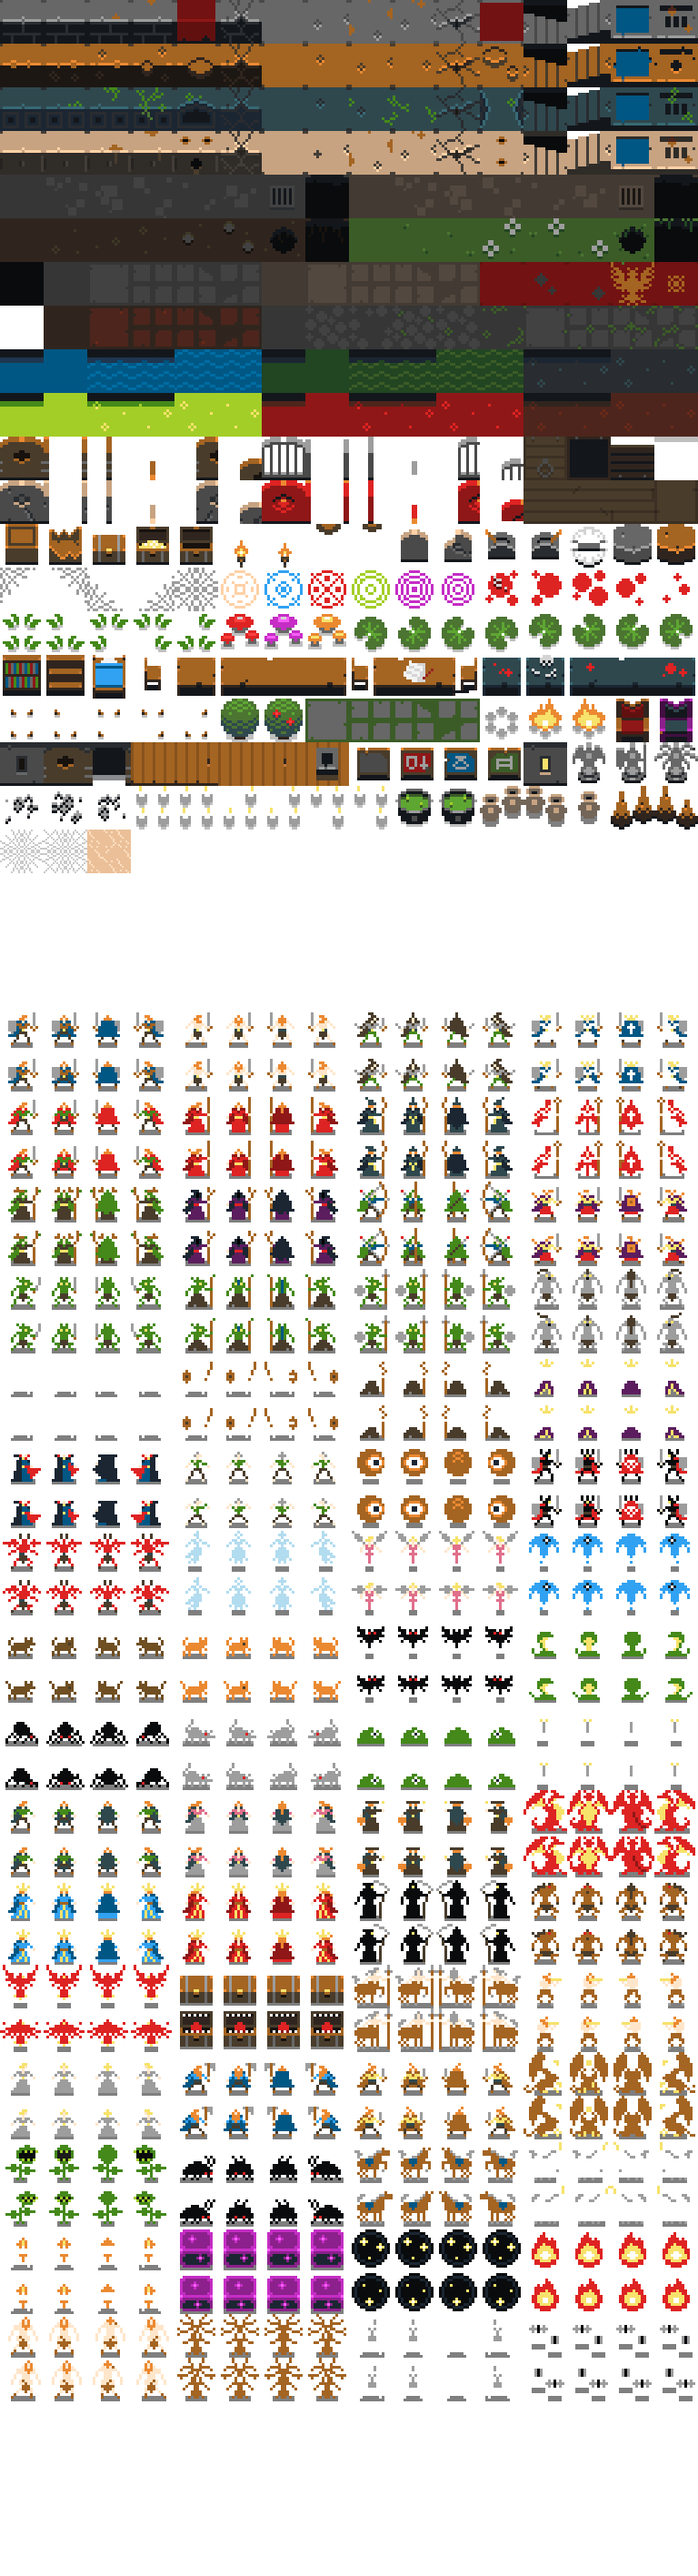
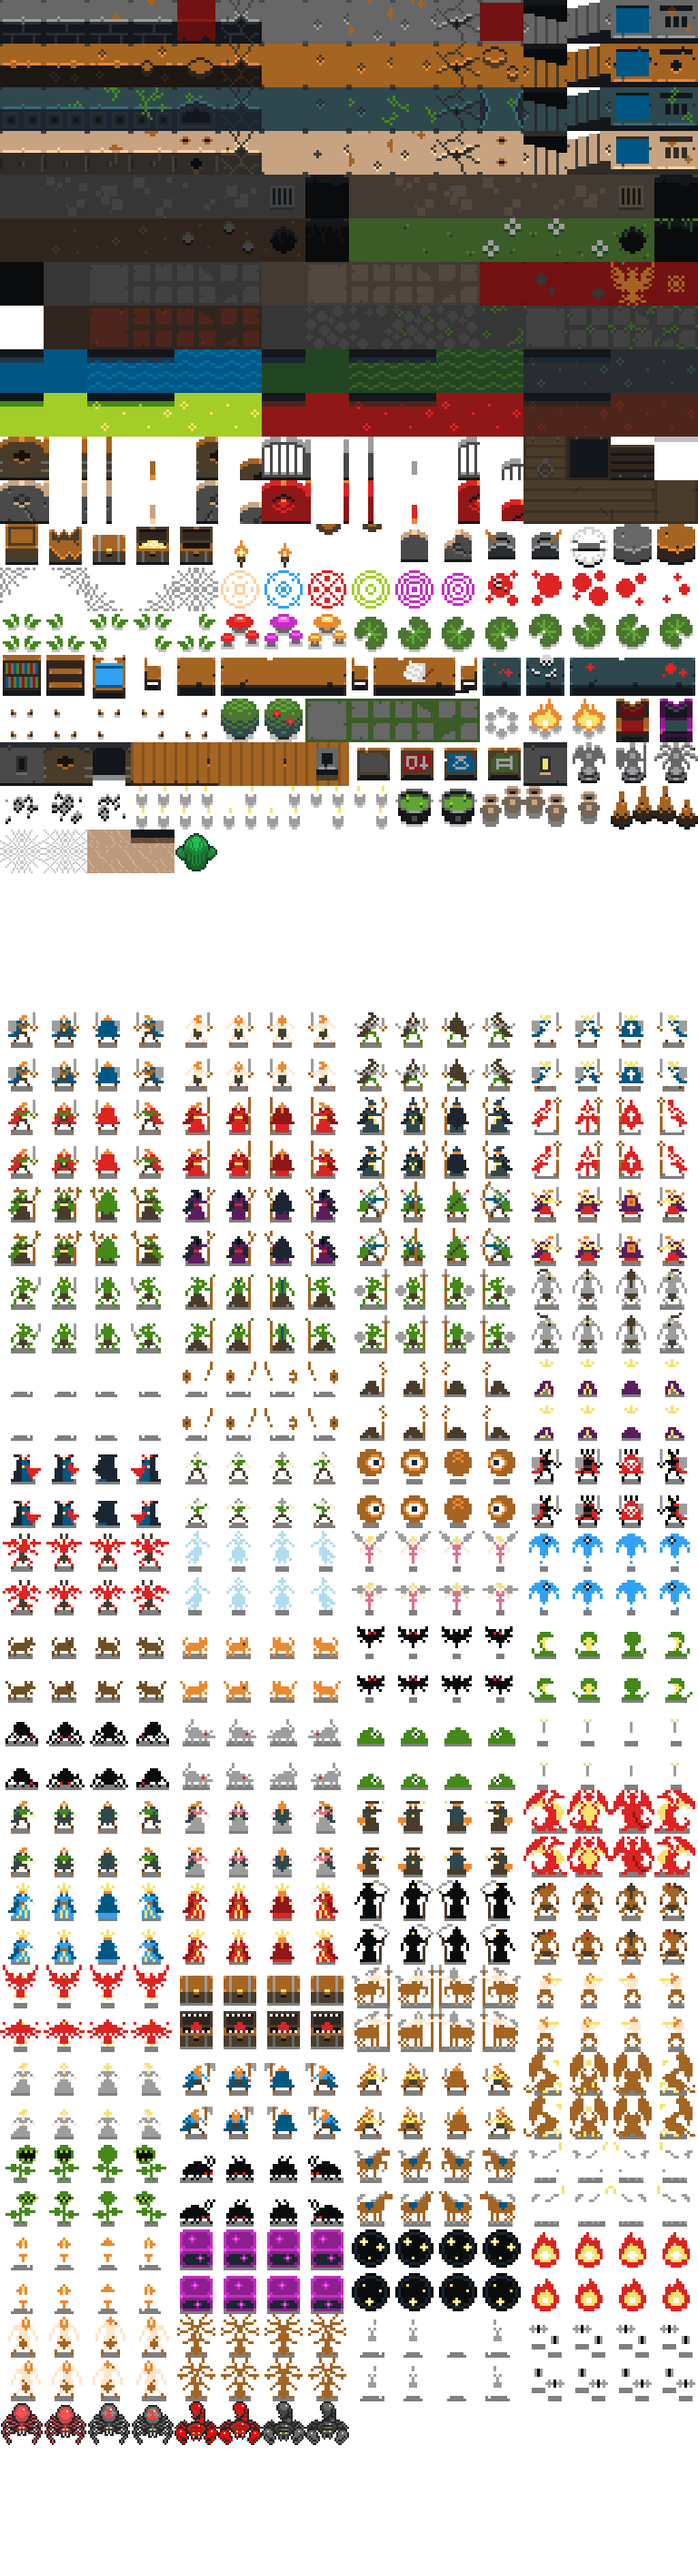
Add beings, decoration

Changed region(s): [[0.0, 0.9322, 0.5, 0.9633], [0.125, 0.3107, 0.3125, 0.3418]]

diff --git a/src/Templates/beings.ts b/src/Templates/beings.ts
@@ -1,7 +1,7 @@
 // import { CONFIG } from '../config'
 import { EntityTemplate } from '../Core/Entity'
 
-export type BeingKey = 'player'
+export type BeingKey = 'player' | 'spiderRed' | 'spiderBlack' | 'scorpionRed' | 'scorpionBlack'
 
 export const beings: EntityTemplate[] = [
   {
@@ -9,6 +9,40 @@ export const beings: EntityTemplate[] = [
     name: ['player'],
     form: ['@', '#EE82EE'],
     tag: ['playerControlled', 'actor', 'blocksMovement', 'being', 'signalUpdatePlayerFOV'],
+    fieldOfView: [16],
+  },
+  {
+    label: 'spiderRed',
+    name: ['giant spider'],
+    form: ['spiderRed1', '#EE82EE'],
+    formSet: [['spiderRed1', '', '', 'spiderRed2', '', '']],
+    formSetAutoCycle: [1000],
+    tag: ['being', 'actor', 'blocksMovement'],
+  },
+  {
+    label: 'spiderBlack',
+    name: ['giant spider'],
+    form: ['spiderBlack1', '#EE82EE'],
+    formSet: [['spiderBlack1', '', '', 'spiderBlack2', '', '']],
+    formSetAutoCycle: [1000],
+    tag: ['being', 'actor', 'blocksMovement'],
+    fieldOfView: [16],
+  },
+  {
+    label: 'scorpionRed',
+    name: ['giant spider'],
+    form: ['scorpionRed1', '#EE82EE'],
+    formSet: [['scorpionRed1', '', '', 'scorpionRed2', '', '']],
+    formSetAutoCycle: [1000],
+    tag: ['being', 'actor', 'blocksMovement'],
+  },
+  {
+    label: 'scorpionBlack',
+    name: ['giant scorpion'],
+    form: ['scorpionBlack1', '#EE82EE'],
+    formSet: [['scorpionBlack1', '', '', 'scorpionBlack2', '', '']],
+    formSetAutoCycle: [1000],
+    tag: ['being', 'actor', 'blocksMovement'],
     fieldOfView: [16],
   },
 ]

diff --git a/src/Templates/features.ts b/src/Templates/features.ts
@@ -1,7 +1,14 @@
 import { EntityTemplate } from '../Core/Entity'
 import { flameVariants, FlameKey } from './flames'
 
-export type FeatureKey = '[clear]' | 'web' | 'lilypad1'
+export type FeatureKey =
+  | '[clear]'
+  | 'web'
+  | 'lilypad1'
+  | 'lilypad2'
+  | 'lilypad3'
+  | 'lilypad4'
+  | 'cactus'
 
 export const features: EntityTemplate[] = [
   {
@@ -18,5 +25,38 @@ export const features: EntityTemplate[] = [
     formSetAutoCycle: [1000],
     tag: ['feature', 'renderUnderBeing'],
     trodOn: ['You bounce off the lilypad.'],
+  },
+  {
+    label: 'lilypad2',
+    name: ['lilypad'],
+    form: ['lilypad21', '', ''],
+    formSet: [['lilypad21', '', '', 'lilypad22', '', '']],
+    formSetAutoCycle: [1000],
+    tag: ['feature', 'renderUnderBeing'],
+    trodOn: ['You bounce off the lilypad.'],
+  },
+  {
+    label: 'lilypad3',
+    name: ['lilypad'],
+    form: ['lilypad31', '', ''],
+    formSet: [['lilypad31', '', '', 'lilypad32', '', '']],
+    formSetAutoCycle: [1000],
+    tag: ['feature', 'renderUnderBeing'],
+    trodOn: ['You bounce off the lilypad.'],
+  },
+  {
+    label: 'lilypad4',
+    name: ['lilypad'],
+    form: ['lilypad41', '', ''],
+    formSet: [['lilypad41', '', '', 'lilypad42', '', '']],
+    formSetAutoCycle: [1000],
+    tag: ['feature', 'renderUnderBeing'],
+    trodOn: ['You bounce off the lilypad.'],
+  },
+  {
+    label: 'cactus',
+    name: ['cactus'],
+    form: ['cactus', '', ''],
+    tag: ['feature', 'renderUnderBeing'],
   },
 ]

diff --git a/src/Templates/terrain.ts b/src/Templates/terrain.ts
@@ -29,13 +29,14 @@ export type TerrainKey =
   | 'dirtFloor5'
   | 'dirtFloor6'
   | 'sand'
+  | 'sandFace'
 
 export const terrain: EntityTemplate[] = [
   {
     label: 'water',
     name: ['water'],
     form: ['water1', '#40a3e5', '#020927'],
-    tag: ['terrain'],
+    tag: ['terrain', 'renderUnderBeing'],
     formSet: [['water1', '', '', 'water2', '', '']],
     formSetAutoCycle: [1000],
   },
@@ -43,7 +44,7 @@ export const terrain: EntityTemplate[] = [
     label: 'waterFace',
     name: ['water'],
     form: ['waterFace1', '#40a3e5', '#020927'],
-    tag: ['terrain', 'face'],
+    tag: ['terrain', 'face', 'renderUnderBeing'],
     formSet: [['waterFace1', '', '', 'waterFace2', '', '']],
     formSetAutoCycle: [1000],
   },
@@ -195,6 +196,12 @@ export const terrain: EntityTemplate[] = [
     label: 'sand',
     name: ['sand'],
     form: ['sand', '', ''],
+    tag: ['terrain', 'renderUnderBeing'],
+  },
+  {
+    label: 'sandFace',
+    name: ['sand'],
+    form: ['sandFace', '', ''],
     tag: ['terrain', 'renderUnderBeing'],
   },
 ]

diff --git a/src/Generate/cave.ts b/src/Generate/cave.ts
@@ -24,8 +24,6 @@ export function cave(
   region.palette.unknown = '#1d191f'
   region.palette.solid = '#342f37'
 
-  const rect = region.rect
-
   //* cave generation
   const wall = 'caveSolid'
   const floor = 'dirtFloor'
@@ -145,10 +143,28 @@ export function cave(
   const lakePts = shuffle(lakeDish.alivePoints())
   loop(6, () => {
     const pt = lakePts.pop()
-    if (pt) O2.feature(pt, 'lilypad1')
+    if (pt) O2.feature(pt, pick(['lilypad1', 'lilypad2', 'lilypad3', 'lilypad4']))
   })
-
   O2.snapshot('lilypads')
+
+  const webPts = shuffle(webDish.alivePoints())
+  loop(6, () => {
+    const pt = webPts.pop()
+    if (pt) O2.being(pt, pick(['spiderRed', 'spiderBlack']))
+  })
+  O2.snapshot('spiders')
+
+  const sandPts = shuffle(sandDish.alivePoints())
+  loop(4, () => {
+    const pt = sandPts.pop()
+    if (pt) O2.being(pt, pick(['scorpionRed', 'scorpionBlack']))
+  })
+  loop(4, () => {
+    const pt = sandPts.pop()
+    if (pt) O2.feature(pt, 'cactus')
+  })
+  O2.snapshot('scorpions')
+
   O2.finalize()
   return region
 }

diff --git a/src/lib/tilemap.ts b/src/lib/tilemap.ts
@@ -153,11 +153,52 @@ export function oryxTinyMap(size: number) {
     ['um'],
     ['bWindow'],
     ['bones'],
-    ['web1', 'web2', 'sand'],
+    ['web1', 'web2', 'sand', 'sandFace', 'cactus'],
     [],
     [],
     [],
     ['@'],
+    [],
+    [],
+    [],
+    [],
+    [],
+    [],
+    [],
+    [],
+    [],
+    [],
+    [],
+    [],
+    [],
+    [],
+    [],
+    [],
+    [],
+    [],
+    [],
+    [],
+    [],
+    [],
+    [],
+    [],
+    [],
+    [],
+    [],
+    [],
+    [],
+    [],
+    [],
+    [
+      'spiderRed1',
+      'spiderRed2',
+      'spiderBlack1',
+      'spiderBlack2',
+      'scorpionRed1',
+      'scorpionRed2',
+      'scorpionBlack1',
+      'scorpionBlack2',
+    ],
   ]
 
   return tiles.reduce((acc, curr, y) => {

diff --git a/src/Generate/Overseer2.ts b/src/Generate/Overseer2.ts
@@ -41,6 +41,12 @@ export class Overseer2 {
           this.terrain(pt, 'waterFace')
         else this.terrain(pt, 'water')
       }
+
+      if (this.region.terrainAt(pt).label.startsWith('sand')) {
+        if (!this.region.terrainAt(pt.add(0, -1)).label.startsWith('sand'))
+          this.terrain(pt, 'sandFace')
+        else this.terrain(pt, 'sand')
+      }
     })
 
     this.mutations.push(this.current)

diff --git a/src/Generate/modules/cellular.ts b/src/Generate/modules/cellular.ts
@@ -117,7 +117,8 @@ export class CellDish {
   countNeighbours(pt: Point, required: number) {
     let count = 0
     for (const npt of pt.neighbours8()) {
-      if (this.inspectPrev(npt)) {
+      // never = true attracts cells to walls
+      if (this.neverCells.has(pt) || this.inspectPrev(npt)) {
         count++
         if (count >= required) return true
       }
